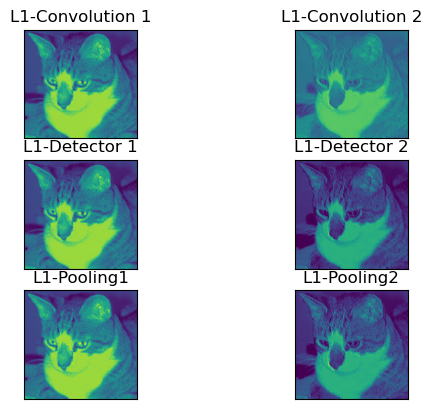
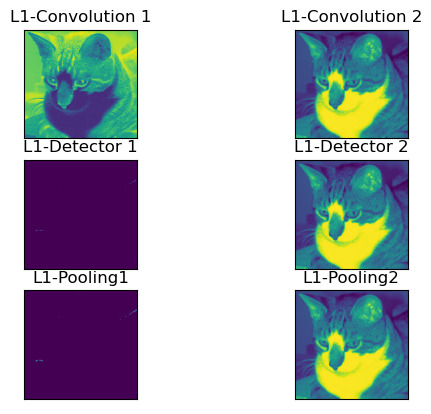
tested initial dense error calculation

diff --git a/CNNClass.py b/CNNClass.py
@@ -20,12 +20,6 @@ class Sequential:
         return None
 
     def forwardprop(self, X_instance):
-        # DEBUG ONLY
-        # Initialize parameters for every layer
-        for layer in self.layers:
-            layer.init_params(X_instance.shape)
-        # DEBUG ONLY END
-
         prev_output = [] 
         for idx, layer in enumerate(self.layers):
             if idx == 0:
@@ -33,6 +27,7 @@ class Sequential:
             else:
                 layer.input = prev_output
                 
+            layer.init_params(layer.input.shape)
             layer.run()
             prev_output = layer.output
 
@@ -273,7 +268,7 @@ class Pooling:
     def init_params(self, input_shape):
         return None
 
-    def run(self):
+    def run(self): 
         # Stage Validation
         if (len(self.input.shape) < 2):
             raise Exception("Invalid input matrix")
@@ -374,7 +369,10 @@ class Dense:
         for shape in input_shape:
             input_size *= shape
         # input_size = dense_input.size
-        self.weights = np.random.uniform(-1, 1, (input_size + 1, class_num)) # +1 for bias
+        self.weights = np.random.uniform(-1, 1, (class_num, input_size + 1)) # +1 for bias
+        
+        self.reset_delta_weight()
+
         return None
 
     def reset_delta_weight(self):
@@ -391,19 +389,29 @@ class Dense:
         target_class = np.argmax(y_pred)
         derived_error_output = self.output.copy()
         derived_error_output[target_class] -= 1
+        
+        print("self.weights", self.weights, self.weights.shape)
+        print("self.output", self.output, self.output.shape)
+        print("derived_error_output", derived_error_output, derived_error_output.shape)
 
         # calculate derived error for layer weight
         # dNet/dweight = input
         derived_error_net = self.input.copy()
 
+        print("derived_error_net", derived_error_net, derived_error_net.shape)
+
         self.error = np.matmul(
             derived_error_output.reshape(derived_error_output.size, 1),
-            derived_error_net.reshape(1, derived_error_net.size)
+            derived_error_net.reshape(1, derived_error_net.size),
         )
+
+        print("self.error", self.error, self.error.shape)
 
         # Calculate delta_weight with momentum
         # Assumption: delta_weight(n) = error + alpha * delta_weight(n-1)
         self.delta_weight = self.error + self.momentum * self.delta_weight
+
+        print("self.delta_weight", self.delta_weight, self.delta_weight.shape)
 
     def update_weight(self):
         # Assumption: weight(n) = weight(n-1) - lr * delta_weight(n-1)
@@ -417,9 +425,9 @@ class Dense:
         self.output = np.zeros(class_num)
 
         # Calculate net output
-        for w in range(input_size):
-            for c in range(class_num):
-                self.output[c] += self.input[w] * self.weights[w][c] 
+        for c in range(class_num):
+            for w in range(input_size):
+                self.output[c] += self.input[w] * self.weights[c][w] 
 
         return None
 

diff --git a/example.py b/example.py
@@ -52,6 +52,7 @@ print("**Dense output**")
 # print(l1_dense_output)
 # After
 model.forwardprop(img)
+model.layers[-2].calculate_error(numpy.array([0, 1])) 
 model_output = model.final_output
 model_feature_layer_output = model.feature_layer_output
 print("CNN CLASS MODEL OUTPUT")
